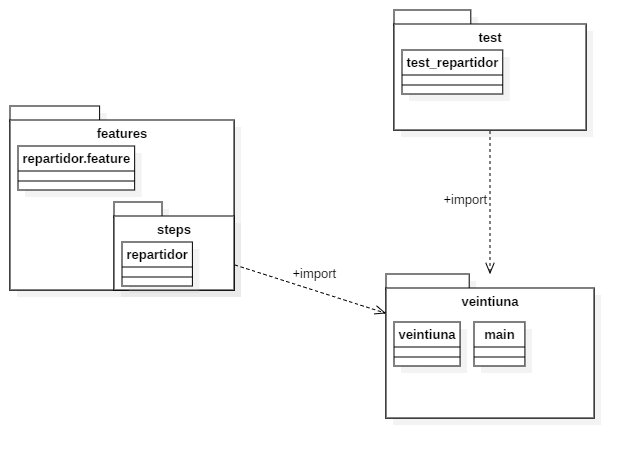
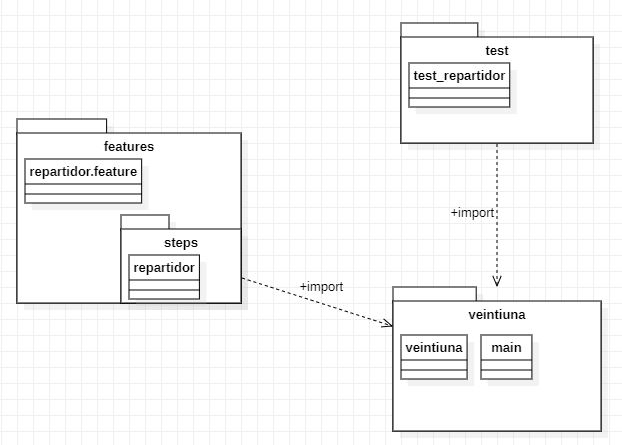
Corregida imagen diag paquetes

diff --git a/README.md b/README.md
@@ -2,11 +2,11 @@
  Modelado Juego Veintiuna - Fundamentos de Ingeniería de Software
  &nbsp;
 ## Integrantes:
-- **Diego Vélez
+- Diego Vélez
 &nbsp;
-- **Sebastián Gonzalez
+- Sebastián Gonzalez
 &nbsp;
-- **Oscar Carrillo
+- Oscar Carrillo
 
 # Veintiuna
 ## Ejercicio de desarrollo basado en pruebas
